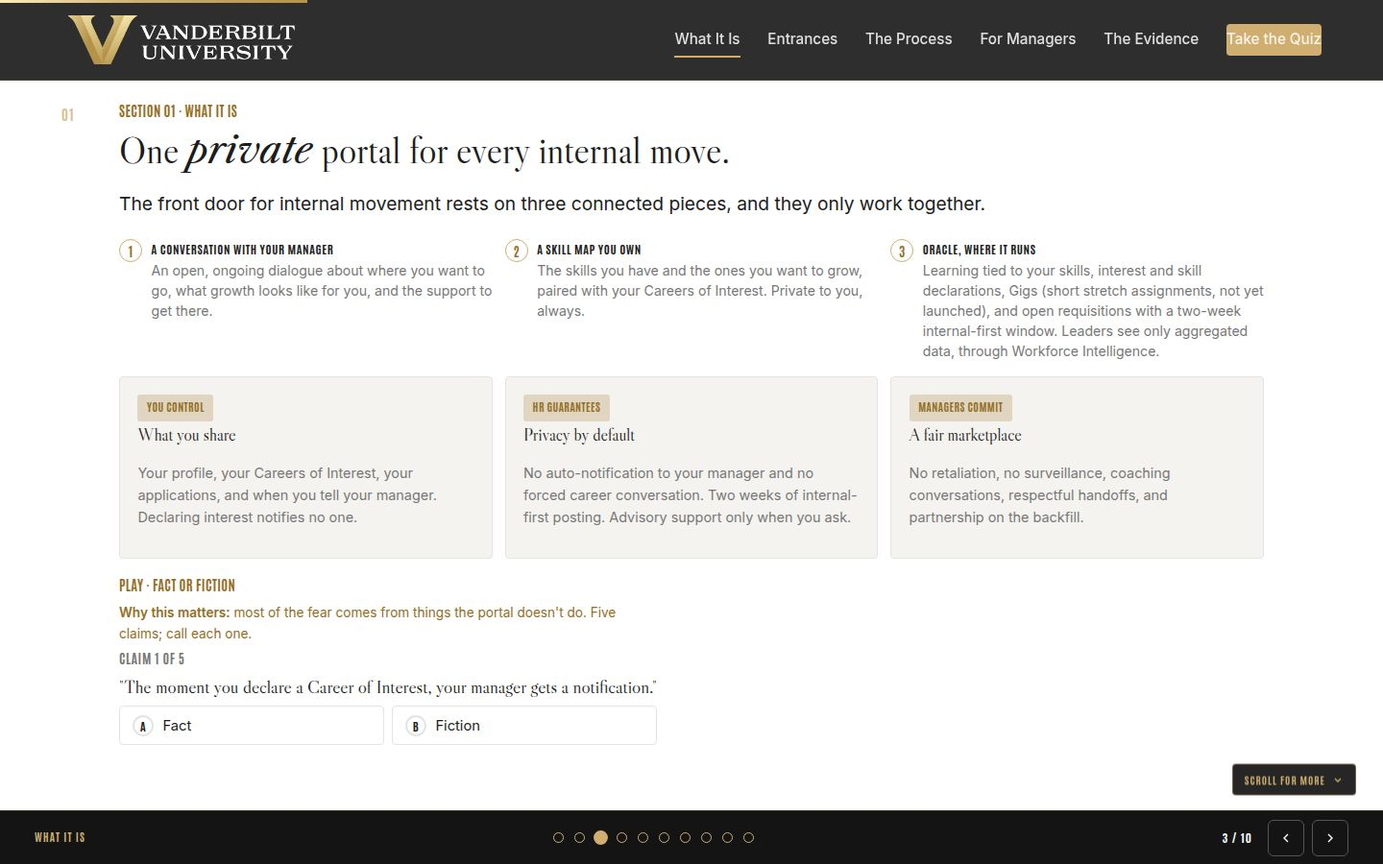
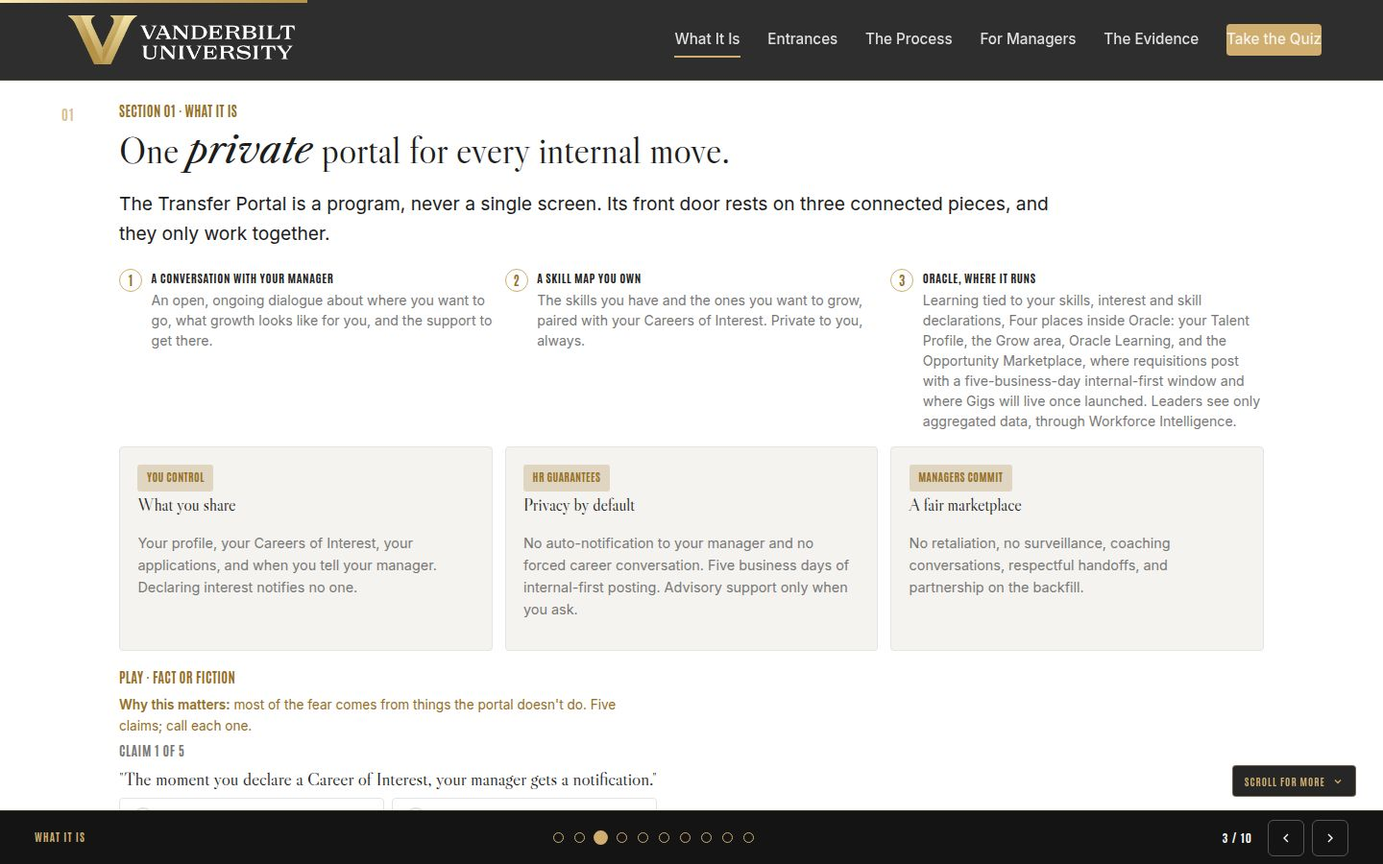
Correct internal-first window to five business days; Gig approval fact; portal naming
The internal hiring freeze is five business days, not two weeks:
corrected in section 01, the guarantee card, door F, Track 2, the
Fact or Fiction and Call the Next Move trainers, the recap quiz, the
cheatsheet, the runbook, and CLAUDE.md. Gigs now state that the manager
approves them before they start, so they are never a secret. Section 01
clarifies the Transfer Portal is a program rather than a single screen
and names the four Oracle places it uses.

Claude-Session: https://claude.ai/code/session_013tDBVkmLuRfSx6Efv12VME

Changed region(s): [[0.0938, 0.2178, 0.9062, 0.6844], [0.0625, 0.4356, 0.625, 0.9333], [0.9062, 0.8711, 0.9688, 0.9333]]

diff --git a/facilitator/index.html b/facilitator/index.html
@@ -309,12 +309,12 @@ body.fac-hide .facshow { display: inline-flex; }
     <div class="wrap">
       <p class="eyebrow" data-reveal>Section 01 · What It Is</p>
       <h2 class="h2" data-reveal>One <em>private</em> portal for every internal move.</h2>
-      <p class="lead" data-reveal>The front door for internal movement rests on three connected pieces, and they only work together.</p>
+      <p class="lead" data-reveal>The Transfer Portal is a program, never a single screen. Its front door rests on three connected pieces, and they only work together.</p>
 
       <ol class="pieces" data-reveal>
         <li><b>A conversation with your manager</b>An open, ongoing dialogue about where you want to go, what growth looks like for you, and the support to get there.</li>
         <li><b>A skill map you own</b>The skills you have and the ones you want to grow, paired with your Careers of Interest. Private to you, always.</li>
-        <li><b>Oracle, where it runs</b>Learning tied to your skills, interest and skill declarations, Gigs (short stretch assignments, not yet launched), and open requisitions with a two-week internal-first window. Leaders see only aggregated data, through Workforce Intelligence.</li>
+        <li><b>Oracle, where it runs</b>Learning tied to your skills, interest and skill declarations, Four places inside Oracle: your Talent Profile, the Grow area, Oracle Learning, and the Opportunity Marketplace, where requisitions post with a five-business-day internal-first window and where Gigs will live once launched. Leaders see only aggregated data, through Workforce Intelligence.</li>
       </ol>
 
       <div class="grid grid-3" style="margin-top:1rem;grid-template-columns:repeat(auto-fit,minmax(220px,1fr))">
@@ -326,7 +326,7 @@ body.fac-hide .facshow { display: inline-flex; }
         <div class="card" data-reveal>
           <span class="tag">HR guarantees</span>
           <h3>Privacy by default</h3>
-          <p class="muted">No auto-notification to your manager and no forced career conversation. Two weeks of internal-first posting. Advisory support only when you ask.</p>
+          <p class="muted">No auto-notification to your manager and no forced career conversation. Five business days of internal-first posting. Advisory support only when you ask.</p>
         </div>
         <div class="card" data-reveal>
           <span class="tag">Managers commit</span>
@@ -363,7 +363,7 @@ body.fac-hide .facshow { display: inline-flex; }
         </div>
       </details>
     </div>
-    <aside class="facnote" aria-label="Facilitator notes"><div class="facnote__head"><span>Facilitator script</span><span class="facnote__time">Full 1 min · Core 1</span><button class="facnote__hide" type="button" aria-label="Hide the facilitator script">Hide</button></div><p class="facnote__purpose">Install the accurate model and dissolve the folklore.</p><div class="facnote__blk"><span class="facnote__tag t-say">Say</span><p class="facnote__script">&ldquo;The portal rests on three connected pieces. One: an open, ongoing growth conversation with your manager. Two: a skill map you own, the skills you have and the ones you want to grow, private to you, always. Three: Oracle, where it all runs: learning, declarations, Gigs, and requisitions posted internally first for two weeks. Leaders see only aggregate through Workforce Intelligence. Now, five claims about what this thing does. Call fact or fiction.&rdquo;</p></div><div class="facnote__blk"><span class="facnote__tag t-do">Do</span><ol class="facnote__steps"><li>Walk the three pieces in one breath each; land that they only work together.</li><li>Guarantee cards in one breath each.</li><li>Run Fact or Fiction as a fast room vote, hands for A or B.</li></ol></div><p class="facnote__meta"><b>Validate:</b> 4+ of 5 on the trainer.</p><p class="facnote__meta"><b>Watch for:</b> Privacy skepticism; point at the mechanics (no notifications, aggregate-only) and move on. If Gigs come up: they have not launched yet, teach the concept and flag that timing is to be announced.</p><div class="facnote__blk"><span class="facnote__tag t-tra">Transition</span><p class="facnote__script">&ldquo;Which door is yours? There are six.&rdquo;</p></div><p class="facnote__meta facnote__core"><b>60-min core:</b> Core: same minute; the trainer carries it.</p></aside>
+    <aside class="facnote" aria-label="Facilitator notes"><div class="facnote__head"><span>Facilitator script</span><span class="facnote__time">Full 1 min · Core 1</span><button class="facnote__hide" type="button" aria-label="Hide the facilitator script">Hide</button></div><p class="facnote__purpose">Install the accurate model and dissolve the folklore.</p><div class="facnote__blk"><span class="facnote__tag t-say">Say</span><p class="facnote__script">&ldquo;The portal rests on three connected pieces. One: an open, ongoing growth conversation with your manager. Two: a skill map you own, the skills you have and the ones you want to grow, private to you, always. Three: Oracle, where it all runs: learning, declarations, Gigs, and requisitions posted internally first for five business days. Leaders see only aggregate through Workforce Intelligence. Now, five claims about what this thing does. Call fact or fiction.&rdquo;</p></div><div class="facnote__blk"><span class="facnote__tag t-do">Do</span><ol class="facnote__steps"><li>Walk the three pieces in one breath each; land that they only work together.</li><li>Guarantee cards in one breath each.</li><li>Run Fact or Fiction as a fast room vote, hands for A or B.</li></ol></div><p class="facnote__meta"><b>Validate:</b> 4+ of 5 on the trainer.</p><p class="facnote__meta"><b>Watch for:</b> Privacy skepticism; point at the mechanics (no notifications, aggregate-only) and move on. If Gigs come up: they have not launched yet, teach the concept and flag that timing is to be announced.</p><div class="facnote__blk"><span class="facnote__tag t-tra">Transition</span><p class="facnote__script">&ldquo;Which door is yours? There are six.&rdquo;</p></div><p class="facnote__meta facnote__core"><b>60-min core:</b> Core: same minute; the trainer carries it.</p></aside>
   </section>
 
   
@@ -406,7 +406,7 @@ body.fac-hide .facshow { display: inline-flex; }
             <ol class="crumbs" aria-label="The path through this entrance">
               <li>Growth conversation with your manager <span class="crumbs__chip">recommended start</span></li>
               <li>Browse Gigs in the Opportunity Marketplace <span class="crumbs__chip crumbs__chip--soon">at launch</span></li>
-              <li>Take one with a defined scope and duration, home role intact</li>
+              <li>Take one, with your manager's approval, scope and duration defined, home role intact</li>
               <li>Add the new skills to your Talent Profile</li>
               <li>Compete when the right requisition opens</li>
             </ol>
@@ -481,7 +481,7 @@ body.fac-hide .facshow { display: inline-flex; }
             <p class="door__row"><b>You right now</b> A posting is live, the skills match, and you are ready today.</p>
             <ol class="crumbs" aria-label="The path through this entrance">
               <li>Growth conversation with your manager <span class="crumbs__chip">recommended start</span></li>
-              <li>Apply inside the two-week internal-first window</li>
+              <li>Apply inside the five-business-day internal-first window</li>
               <li>Interview in the same process every candidate gets</li>
               <li>HR and both managers plan the handoff, typically two to four weeks</li>
               <li>Onboard fast while your old role backfills through the portal</li>
@@ -539,14 +539,14 @@ body.fac-hide .facshow { display: inline-flex; }
             <li><b>Set a Grow plan and flag Careers of Interest.</b> Both live in Grow: one to three goals, plus the roles you want suggestions about.</li>
             <li><b>Take the learning.</b> Courses in Oracle Learning, tied to the skills you want to grow.</li>
             <li><b>Explore.</b> Browse the <a href="https://ecsr.fa.us2.oraclecloud.com/fscmUI/redwood/internalmobility/opportunitymarketplace/search">Opportunity Marketplace</a> with the Opportunity filter set to Career Roles: you are browsing careers, with or without an open requisition. Save what interests you.</li>
-            <li><b>Take a Gig, optionally, once Gigs launch.</b> Defined scope, defined duration, real development. No transfer guarantee. Gigs are still to come; watch for the announcement.</li>
+            <li><b>Take a Gig, optionally, once Gigs launch.</b> Defined scope, defined duration, real development. Your manager approves a Gig before it starts, so it is never a secret. No transfer guarantee; Gigs are still to come.</li>
             <li><b>Ask for advisory support, optionally.</b> Confidential, on your initiative; nothing happens without your consent.</li>
           </ol>
         </div>
         <div class="track" data-reveal>
           <span class="tag">When a role opens · The competitive move</span>
           <ol>
-            <li><b>A requisition opens,</b> internal-first for two weeks.</li>
+            <li><b>A requisition opens,</b> internal-first for five business days.</li>
             <li><b>You apply.</b> Recruiters run one consistent process; the hiring manager sees what you choose to share; performance data follows policy.</li>
             <li><b>You interview,</b> in the same process every candidate gets.</li>
             <li><b>Transition is coordinated.</b> HR and both managers plan the handoff, typically two to four weeks.</li>
@@ -584,7 +584,7 @@ body.fac-hide .facshow { display: inline-flex; }
         </div>
       </details>
     </div>
-    <aside class="facnote" aria-label="Facilitator notes"><div class="facnote__head"><span>Facilitator script</span><span class="facnote__time">Full 2 min · Core 1</span><button class="facnote__hide" type="button" aria-label="Hide the facilitator script">Hide</button></div><p class="facnote__purpose">Make every step predictable, including disclosure timing.</p><div class="facnote__blk"><span class="facnote__tag t-say">Say</span><p class="facnote__script">&ldquo;Growth here is a conversation, never a surprise. Whatever your goal, keep developing, and keep your manager in the story; nobody should be caught off guard. The portal gives growth two gears. Day to day: profile, Grow plan, learning, the Opportunity Marketplace, optional advisory, with privacy guaranteed when you need it. Then a role opens: it posts internally first, you apply and interview, and if you win it, a coordinated handoff, then your old role backfills through the same portal.&rdquo;</p></div><div class="facnote__blk"><span class="facnote__tag t-do">Do</span><ol class="facnote__steps"><li>Tracks in two breaths.</li><li>Point out the live Oracle links: Talent Profile, Skills Center, Opportunity Marketplace with Opportunity set to Career Roles.</li><li>Run Call the Next Move as a fast vote.</li></ol></div><p class="facnote__meta"><b>Validate:</b> 4+ of 5 on the trainer.</p><p class="facnote__meta"><b>Watch for:</b> The 'guaranteed job' misread: the window guarantees first look, the interview is yours to win. If privacy versus openness comes up: both are true, the conversation is the culture and the privacy is the guarantee. And the Gig caveat if asked: Gigs are still to launch.</p><div class="facnote__blk"><span class="facnote__tag t-tra">Transition</span><p class="facnote__script">&ldquo;Now the section that decides whether any of this works.&rdquo;</p></div><p class="facnote__meta facnote__core"><b>60-min core:</b> Core: tracks in one breath each, trainer as one vote.</p></aside>
+    <aside class="facnote" aria-label="Facilitator notes"><div class="facnote__head"><span>Facilitator script</span><span class="facnote__time">Full 2 min · Core 1</span><button class="facnote__hide" type="button" aria-label="Hide the facilitator script">Hide</button></div><p class="facnote__purpose">Make every step predictable, including disclosure timing.</p><div class="facnote__blk"><span class="facnote__tag t-say">Say</span><p class="facnote__script">&ldquo;Growth here is a conversation, never a surprise. Whatever your goal, keep developing, and keep your manager in the story; nobody should be caught off guard. The portal gives growth two gears. Day to day: profile, Grow plan, learning, the Opportunity Marketplace, optional advisory, with privacy guaranteed when you need it. Then a role opens: it posts internally first, you apply and interview, and if you win it, a coordinated handoff, then your old role backfills through the same portal.&rdquo;</p></div><div class="facnote__blk"><span class="facnote__tag t-do">Do</span><ol class="facnote__steps"><li>Tracks in two breaths.</li><li>Point out the live Oracle links: Talent Profile, Skills Center, Opportunity Marketplace with Opportunity set to Career Roles.</li><li>Run Call the Next Move as a fast vote.</li></ol></div><p class="facnote__meta"><b>Validate:</b> 4+ of 5 on the trainer.</p><p class="facnote__meta"><b>Watch for:</b> The 'guaranteed job' misread: the window guarantees first look, the interview is yours to win. If privacy versus openness comes up: both are true, the conversation is the culture and the privacy is the guarantee. And the Gig caveat if asked: Gigs are still to launch, and a Gig needs the manager's approval, so it is never invisible to them.</p><div class="facnote__blk"><span class="facnote__tag t-tra">Transition</span><p class="facnote__script">&ldquo;Now the section that decides whether any of this works.&rdquo;</p></div><p class="facnote__meta facnote__core"><b>60-min core:</b> Core: tracks in one breath each, trainer as one vote.</p></aside>
   </section>
 
   <!-- ============ 7 · 04 THE CULTURE SHIFT ============ -->
@@ -754,7 +754,7 @@ body.fac-hide .facshow { display: inline-flex; }
     <div class="wrap">
       <p class="eyebrow" data-reveal>Job aid · Your first week</p>
       <h2 class="h2" data-reveal>Your first week, <em>mapped</em>.</h2>
-      <p class="lead" data-reveal>Nothing to fill in and nothing to submit. When you are ready to step through the portal, this is the runway: five small moves, the exact Oracle screens, and live links that open them.</p>
+      <p class="lead" data-reveal>Nothing to fill in and nothing to submit. When you are ready to start, this is the runway: five small moves, the exact Oracle screens, and live links that open them.</p>
       <div class="warmup">
         <div class="card" data-reveal>
           <span class="tag">01 · The conversation</span>
@@ -853,7 +853,7 @@ body.fac-hide .facshow { display: inline-flex; }
 
 
 <script src="../assets/js/qrcode.js?v=1"></script>
-<script src="../assets/js/main.js?v=3"></script>
+<script src="../assets/js/main.js?v=4"></script>
 
 <script>
 (function () {

diff --git a/web/index.html b/web/index.html
@@ -191,12 +191,12 @@
     <div class="wrap">
       <p class="eyebrow" data-reveal>Section 01 · What It Is</p>
       <h2 class="h2" data-reveal>One <em>private</em> portal for every internal move.</h2>
-      <p class="lead" data-reveal>The front door for internal movement rests on three connected pieces, and they only work together.</p>
+      <p class="lead" data-reveal>The Transfer Portal is a program, never a single screen. Its front door rests on three connected pieces, and they only work together.</p>
 
       <ol class="pieces" data-reveal>
         <li><b>A conversation with your manager</b>An open, ongoing dialogue about where you want to go, what growth looks like for you, and the support to get there.</li>
         <li><b>A skill map you own</b>The skills you have and the ones you want to grow, paired with your Careers of Interest. Private to you, always.</li>
-        <li><b>Oracle, where it runs</b>Learning tied to your skills, interest and skill declarations, Gigs (short stretch assignments, not yet launched), and open requisitions with a two-week internal-first window. Leaders see only aggregated data, through Workforce Intelligence.</li>
+        <li><b>Oracle, where it runs</b>Learning tied to your skills, interest and skill declarations, Four places inside Oracle: your Talent Profile, the Grow area, Oracle Learning, and the Opportunity Marketplace, where requisitions post with a five-business-day internal-first window and where Gigs will live once launched. Leaders see only aggregated data, through Workforce Intelligence.</li>
       </ol>
 
       <div class="grid grid-3" style="margin-top:1rem;grid-template-columns:repeat(auto-fit,minmax(220px,1fr))">
@@ -208,7 +208,7 @@
         <div class="card" data-reveal>
           <span class="tag">HR guarantees</span>
           <h3>Privacy by default</h3>
-          <p class="muted">No auto-notification to your manager and no forced career conversation. Two weeks of internal-first posting. Advisory support only when you ask.</p>
+          <p class="muted">No auto-notification to your manager and no forced career conversation. Five business days of internal-first posting. Advisory support only when you ask.</p>
         </div>
         <div class="card" data-reveal>
           <span class="tag">Managers commit</span>
@@ -281,7 +281,7 @@
             <ol class="crumbs" aria-label="The path through this entrance">
               <li>Growth conversation with your manager <span class="crumbs__chip">recommended start</span></li>
               <li>Browse Gigs in the Opportunity Marketplace <span class="crumbs__chip crumbs__chip--soon">at launch</span></li>
-              <li>Take one with a defined scope and duration, home role intact</li>
+              <li>Take one, with your manager's approval, scope and duration defined, home role intact</li>
               <li>Add the new skills to your Talent Profile</li>
               <li>Compete when the right requisition opens</li>
             </ol>
@@ -356,7 +356,7 @@
             <p class="door__row"><b>You right now</b> A posting is live, the skills match, and you are ready today.</p>
             <ol class="crumbs" aria-label="The path through this entrance">
               <li>Growth conversation with your manager <span class="crumbs__chip">recommended start</span></li>
-              <li>Apply inside the two-week internal-first window</li>
+              <li>Apply inside the five-business-day internal-first window</li>
               <li>Interview in the same process every candidate gets</li>
               <li>HR and both managers plan the handoff, typically two to four weeks</li>
               <li>Onboard fast while your old role backfills through the portal</li>
@@ -407,14 +407,14 @@
             <li><b>Set a Grow plan and flag Careers of Interest.</b> Both live in Grow: one to three goals, plus the roles you want suggestions about.</li>
             <li><b>Take the learning.</b> Courses in Oracle Learning, tied to the skills you want to grow.</li>
             <li><b>Explore.</b> Browse the <a href="https://ecsr.fa.us2.oraclecloud.com/fscmUI/redwood/internalmobility/opportunitymarketplace/search">Opportunity Marketplace</a> with the Opportunity filter set to Career Roles: you are browsing careers, with or without an open requisition. Save what interests you.</li>
-            <li><b>Take a Gig, optionally, once Gigs launch.</b> Defined scope, defined duration, real development. No transfer guarantee. Gigs are still to come; watch for the announcement.</li>
+            <li><b>Take a Gig, optionally, once Gigs launch.</b> Defined scope, defined duration, real development. Your manager approves a Gig before it starts, so it is never a secret. No transfer guarantee; Gigs are still to come.</li>
             <li><b>Ask for advisory support, optionally.</b> Confidential, on your initiative; nothing happens without your consent.</li>
           </ol>
         </div>
         <div class="track" data-reveal>
           <span class="tag">When a role opens · The competitive move</span>
           <ol>
-            <li><b>A requisition opens,</b> internal-first for two weeks.</li>
+            <li><b>A requisition opens,</b> internal-first for five business days.</li>
             <li><b>You apply.</b> Recruiters run one consistent process; the hiring manager sees what you choose to share; performance data follows policy.</li>
             <li><b>You interview,</b> in the same process every candidate gets.</li>
             <li><b>Transition is coordinated.</b> HR and both managers plan the handoff, typically two to four weeks.</li>
@@ -600,7 +600,7 @@
     <div class="wrap">
       <p class="eyebrow" data-reveal>Job aid · Your first week</p>
       <h2 class="h2" data-reveal>Your first week, <em>mapped</em>.</h2>
-      <p class="lead" data-reveal>Nothing to fill in and nothing to submit. When you are ready to step through the portal, this is the runway: five small moves, the exact Oracle screens, and live links that open them.</p>
+      <p class="lead" data-reveal>Nothing to fill in and nothing to submit. When you are ready to start, this is the runway: five small moves, the exact Oracle screens, and live links that open them.</p>
       <div class="warmup">
         <div class="card" data-reveal>
           <span class="tag">01 · The conversation</span>
@@ -697,6 +697,6 @@
 
 
 <script src="../assets/js/qrcode.js?v=1"></script>
-<script src="../assets/js/main.js?v=3"></script>
+<script src="../assets/js/main.js?v=4"></script>
 </body>
 </html>

diff --git a/index.html b/index.html
@@ -211,12 +211,12 @@
     <div class="wrap">
       <p class="eyebrow" data-reveal>Section 01 · What It Is</p>
       <h2 class="h2" data-reveal>One <em>private</em> portal for every internal move.</h2>
-      <p class="lead" data-reveal>The front door for internal movement rests on three connected pieces, and they only work together.</p>
+      <p class="lead" data-reveal>The Transfer Portal is a program, never a single screen. Its front door rests on three connected pieces, and they only work together.</p>
 
       <ol class="pieces" data-reveal>
         <li><b>A conversation with your manager</b>An open, ongoing dialogue about where you want to go, what growth looks like for you, and the support to get there.</li>
         <li><b>A skill map you own</b>The skills you have and the ones you want to grow, paired with your Careers of Interest. Private to you, always.</li>
-        <li><b>Oracle, where it runs</b>Learning tied to your skills, interest and skill declarations, Gigs (short stretch assignments, not yet launched), and open requisitions with a two-week internal-first window. Leaders see only aggregated data, through Workforce Intelligence.</li>
+        <li><b>Oracle, where it runs</b>Learning tied to your skills, interest and skill declarations, Four places inside Oracle: your Talent Profile, the Grow area, Oracle Learning, and the Opportunity Marketplace, where requisitions post with a five-business-day internal-first window and where Gigs will live once launched. Leaders see only aggregated data, through Workforce Intelligence.</li>
       </ol>
 
       <div class="grid grid-3" style="margin-top:1rem;grid-template-columns:repeat(auto-fit,minmax(220px,1fr))">
@@ -228,7 +228,7 @@
         <div class="card" data-reveal>
           <span class="tag">HR guarantees</span>
           <h3>Privacy by default</h3>
-          <p class="muted">No auto-notification to your manager and no forced career conversation. Two weeks of internal-first posting. Advisory support only when you ask.</p>
+          <p class="muted">No auto-notification to your manager and no forced career conversation. Five business days of internal-first posting. Advisory support only when you ask.</p>
         </div>
         <div class="card" data-reveal>
           <span class="tag">Managers commit</span>
@@ -307,7 +307,7 @@
             <ol class="crumbs" aria-label="The path through this entrance">
               <li>Growth conversation with your manager <span class="crumbs__chip">recommended start</span></li>
               <li>Browse Gigs in the Opportunity Marketplace <span class="crumbs__chip crumbs__chip--soon">at launch</span></li>
-              <li>Take one with a defined scope and duration, home role intact</li>
+              <li>Take one, with your manager's approval, scope and duration defined, home role intact</li>
               <li>Add the new skills to your Talent Profile</li>
               <li>Compete when the right requisition opens</li>
             </ol>
@@ -382,7 +382,7 @@
             <p class="door__row"><b>You right now</b> A posting is live, the skills match, and you are ready today.</p>
             <ol class="crumbs" aria-label="The path through this entrance">
               <li>Growth conversation with your manager <span class="crumbs__chip">recommended start</span></li>
-              <li>Apply inside the two-week internal-first window</li>
+              <li>Apply inside the five-business-day internal-first window</li>
               <li>Interview in the same process every candidate gets</li>
               <li>HR and both managers plan the handoff, typically two to four weeks</li>
               <li>Onboard fast while your old role backfills through the portal</li>
@@ -439,14 +439,14 @@
             <li><b>Set a Grow plan and flag Careers of Interest.</b> Both live in Grow: one to three goals, plus the roles you want suggestions about.</li>
             <li><b>Take the learning.</b> Courses in Oracle Learning, tied to the skills you want to grow.</li>
             <li><b>Explore.</b> Browse the <a href="https://ecsr.fa.us2.oraclecloud.com/fscmUI/redwood/internalmobility/opportunitymarketplace/search">Opportunity Marketplace</a> with the Opportunity filter set to Career Roles: you are browsing careers, with or without an open requisition. Save what interests you.</li>
-            <li><b>Take a Gig, optionally, once Gigs launch.</b> Defined scope, defined duration, real development. No transfer guarantee. Gigs are still to come; watch for the announcement.</li>
+            <li><b>Take a Gig, optionally, once Gigs launch.</b> Defined scope, defined duration, real development. Your manager approves a Gig before it starts, so it is never a secret. No transfer guarantee; Gigs are still to come.</li>
             <li><b>Ask for advisory support, optionally.</b> Confidential, on your initiative; nothing happens without your consent.</li>
           </ol>
         </div>
         <div class="track" data-reveal>
           <span class="tag">When a role opens · The competitive move</span>
           <ol>
-            <li><b>A requisition opens,</b> internal-first for two weeks.</li>
+            <li><b>A requisition opens,</b> internal-first for five business days.</li>
             <li><b>You apply.</b> Recruiters run one consistent process; the hiring manager sees what you choose to share; performance data follows policy.</li>
             <li><b>You interview,</b> in the same process every candidate gets.</li>
             <li><b>Transition is coordinated.</b> HR and both managers plan the handoff, typically two to four weeks.</li>
@@ -650,7 +650,7 @@
     <div class="wrap">
       <p class="eyebrow" data-reveal>Job aid · Your first week</p>
       <h2 class="h2" data-reveal>Your first week, <em>mapped</em>.</h2>
-      <p class="lead" data-reveal>Nothing to fill in and nothing to submit. When you are ready to step through the portal, this is the runway: five small moves, the exact Oracle screens, and live links that open them.</p>
+      <p class="lead" data-reveal>Nothing to fill in and nothing to submit. When you are ready to start, this is the runway: five small moves, the exact Oracle screens, and live links that open them.</p>
       <div class="warmup">
         <div class="card" data-reveal>
           <span class="tag">01 · The conversation</span>
@@ -747,6 +747,6 @@
 
 
 <script src="assets/js/qrcode.js?v=1"></script>
-<script src="assets/js/main.js?v=3"></script>
+<script src="assets/js/main.js?v=4"></script>
 </body>
 </html>

diff --git a/assets/js/main.js b/assets/js/main.js
@@ -217,7 +217,7 @@
     items: [
       { q: '"The moment you declare a Career of Interest, your manager gets a notification."',
         answer: 1, why: 'Fiction, and it is the load-bearing guarantee: declarations are silent by default. You decide when to disclose.' },
-      { q: '"Eligible open roles post internally for two weeks before they can post externally."',
+      { q: '"Eligible open roles post internally for five business days before they can post externally."',
         answer: 0, why: 'Fact. The internal-first window is the structural advantage staff get: you see opportunity before the outside world does.' },
       { q: '"A Gig is basically a trial run; do well and the permanent transfer follows."',
         answer: 1, why: 'Fiction. A Gig is development with a defined scope and duration. It builds skills and relationships, and a permanent move still runs through a competitive requisition.' },
@@ -268,8 +268,8 @@
         opts: ['A permanent transfer to that team within the year', 'First refusal on their next opening', 'The development itself: skills, relationships, and evidence, with any move still running through a competitive requisition'],
         answer: 2, why: 'The Gig is the development. What you carry out of it, new skills, a network, and proof you can do the work, makes you a stronger candidate when a real requisition opens.' },
       { q: 'A role you want just posted internally. When can external candidates enter the race?',
-        opts: ['Immediately, alongside you', 'After the two-week internal-first window', 'Whenever the hiring manager chooses'],
-        answer: 1, why: 'Two weeks. That window is the internal advantage: eligible roles face internal candidates first, and any overlap period still runs one consistent interview process.' },
+        opts: ['Immediately, alongside you', 'After the five-business-day internal-first window', 'Whenever the hiring manager chooses'],
+        answer: 1, why: 'Five business days. That window is the internal advantage: eligible roles face internal candidates first, and any overlap period still runs one consistent interview process.' },
       { q: 'You interviewed and got the role. What happens between the offer and your first day?',
         opts: ['You start Monday and your old team improvises', 'HR and both managers coordinate a planned handoff, typically two to four weeks', 'You split time between both jobs for a quarter'],
         answer: 1, why: 'A coordinated, respectful handoff, usually two to four weeks depending on role complexity. The releasing manager is a partner in the plan, never an obstacle to it.' },
@@ -420,8 +420,8 @@
       { q: 'A Gig is…',
         opts: ['A trial period that converts to a transfer if you do well', 'A defined-scope, defined-duration stretch assignment that counts as development', 'A mandatory rotation HR assigns', 'A second job with extra pay'],
         correct: 1, why: 'Development, on purpose: real work in another unit, with your home role kept, and any permanent move still running through a competitive requisition.' },
-      { q: 'The two-week internal-first window means…',
-        opts: ['Internal candidates get two weeks\' head start before eligible roles post externally', 'Roles stay internal-only forever', 'You have two weeks to accept any offer', 'Managers get two weeks to counter-offer'],
+      { q: 'The five-business-day internal-first window means…',
+        opts: ['Internal candidates get five business days\' head start before eligible roles post externally', 'Roles stay internal-only forever', 'You have five business days to accept any offer', 'Managers get five business days to counter-offer'],
         correct: 0, why: 'Staff see eligible openings first. After the window, any overlap with external candidates still runs one consistent interview process.' },
       { q: 'The talent hoarding research (Haegele, American Economic Review, 2024) found…',
         opts: ['Hoarding is rare, about one manager in ten', 'About 75% of managers self-report hoarding, and it deters internal applications', 'Hoarding mostly helps organizations keep teams stable', 'Only bad managers hoard'],

diff --git a/facilitator/guide.html b/facilitator/guide.html
@@ -123,7 +123,7 @@
     <div class="sec__notes">
     <h2>01 · What it is <span class="mins">Full 1 min · Core 1</span></h2>
     <p class="purpose">Install the accurate model and dissolve the folklore.</p>
-    <p class="tagline say">Say</p><p class="script">&ldquo;The portal rests on three connected pieces. One: an open, ongoing growth conversation with your manager. Two: a skill map you own, the skills you have and the ones you want to grow, private to you, always. Three: Oracle, where it all runs: learning, declarations, Gigs, and requisitions posted internally first for two weeks. Leaders see only aggregate through Workforce Intelligence. Now, five claims about what this thing does. Call fact or fiction.&rdquo;</p>
+    <p class="tagline say">Say</p><p class="script">&ldquo;The portal rests on three connected pieces. One: an open, ongoing growth conversation with your manager. Two: a skill map you own, the skills you have and the ones you want to grow, private to you, always. Three: Oracle, where it all runs: learning, declarations, Gigs, and requisitions posted internally first for five business days. Leaders see only aggregate through Workforce Intelligence. Now, five claims about what this thing does. Call fact or fiction.&rdquo;</p>
     <p class="tagline">Do</p><ol><li>Walk the three pieces in one breath each; land that they only work together.</li><li>Guarantee cards in one breath each.</li><li>Run Fact or Fiction as a fast room vote, hands for A or B.</li></ol>
     
     
@@ -158,7 +158,7 @@
     
     
     <p class="mini"><b>Validate:</b> 4+ of 5 on the trainer.</p>
-    <p class="mini"><b>Watch for:</b> The 'guaranteed job' misread: the window guarantees first look, the interview is yours to win. If privacy versus openness comes up: both are true, the conversation is the culture and the privacy is the guarantee. And the Gig caveat if asked: Gigs are still to launch.</p>
+    <p class="mini"><b>Watch for:</b> The 'guaranteed job' misread: the window guarantees first look, the interview is yours to win. If privacy versus openness comes up: both are true, the conversation is the culture and the privacy is the guarantee. And the Gig caveat if asked: Gigs are still to launch, and a Gig needs the manager's approval, so it is never invisible to them.</p>
     <p class="mini"><b>Transition:</b> &ldquo;Now the section that decides whether any of this works.&rdquo;</p>
     <p class="mini core"><b>Core path:</b> Core: tracks in one breath each, trainer as one vote.</p>
     </div>

diff --git a/cheatsheet.html b/cheatsheet.html
@@ -63,7 +63,7 @@
   <div class="grid">
     <div class="box full">
       <h2>What it is</h2>
-      <p class="prompt">Vanderbilt's staff-facing front door for internal career movement, powered by Oracle. Inside: internal requisitions (two-week internal-first window), Careers of Interest, your skills profile, Grow plans, Gigs (not yet launched), and advisory support. Leaders see aggregated, privacy-preserving data through Workforce Intelligence.</p>
+      <p class="prompt">Vanderbilt's staff-facing front door for internal career movement, powered by Oracle. Inside: internal requisitions (five-business-day internal-first window), Careers of Interest, your skills profile, Grow plans, Gigs (not yet launched), and advisory support. Leaders see aggregated, privacy-preserving data through Workforce Intelligence.</p>
     </div>
 
     <div class="box">
@@ -127,7 +127,7 @@
 
     <div class="box">
       <h2>Gigs, in one paragraph</h2>
-      <p>A short-term stretch assignment in another unit: defined scope, defined duration, home role kept. It counts as development and never promises a permanent move; what it builds (skills, relationships, evidence) makes you a stronger candidate when a real requisition opens. One caveat: Gigs have not launched yet at Vanderbilt, so learn the concept now and watch for the announcement.</p>
+      <p>A short-term stretch assignment in another unit: defined scope, defined duration, home role kept. Your manager approves it before it starts. It counts as development and never promises a permanent move; what it builds (skills, relationships, evidence) makes you a stronger candidate when a real requisition opens. One caveat: Gigs have not launched yet at Vanderbilt, so learn the concept now and watch for the announcement.</p>
     </div>
 
     <div class="box full">

diff --git a/CLAUDE.md b/CLAUDE.md
@@ -22,8 +22,8 @@ catalog at me5231979/Course_Library. Same engine, same standing principles.
    recommended never required; a private skill map the staff member owns;
    Oracle as the operating layer for learning, declarations, Gigs, and
    requisitions); growth means upward or lateral, within or across units, the six entrances are common examples rather than the only ways in,
-   and mobility is a normal part of a Vanderbilt career; two-week
-   internal-first window; Gigs are development with no transfer guarantee (and have NOT launched yet: the copy carries a caveat in section 01, door B, Track 1, the capstone chip, and the cheatsheet; remove those when Gigs go live);
+   and mobility is a normal part of a Vanderbilt career; FIVE-BUSINESS-DAY
+   internal-first window (an internal hiring freeze; it is NOT two weeks); Gigs are development with no transfer guarantee, and a Gig requires the manager's approval so managers always know about their directs' Gigs (and have NOT launched yet: the copy carries a caveat in section 01, door B, Track 1, the capstone chip, and the cheatsheet; remove those when Gigs go live);
    advisory activates only on request; no auto-notification to managers
    and no forced career conversations; recruiters support competitive
    application; internal application is competitive, never entitled;
